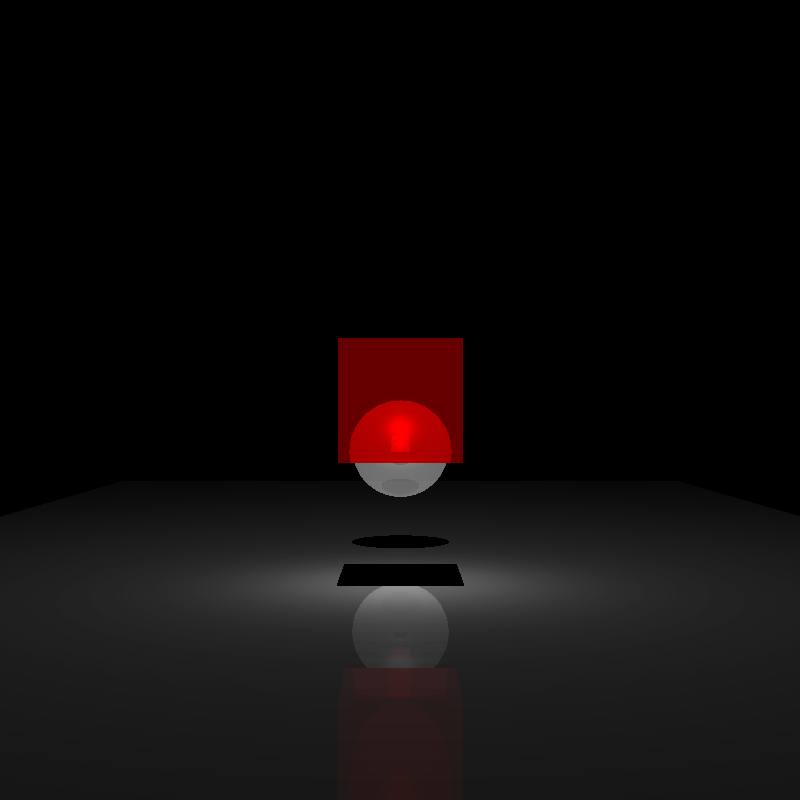
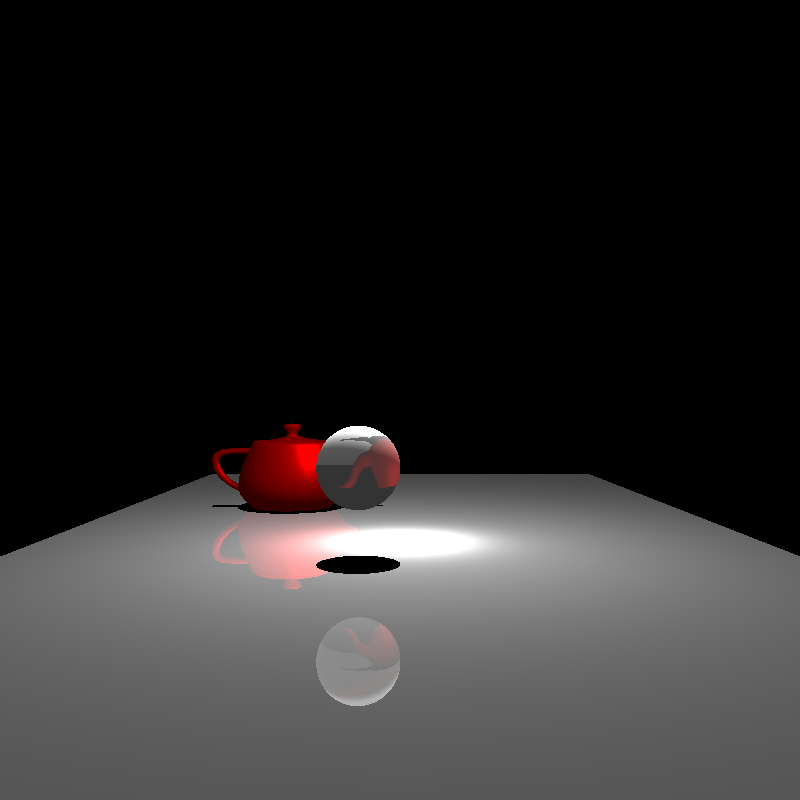
Loader

diff --git a/src/edu/up/isgc/raytracer/Raytracer.java b/src/edu/up/isgc/raytracer/Raytracer.java
@@ -26,23 +26,35 @@ public class Raytracer {
     public static void main(String[] args) {
         System.out.println(new Date());
         Scene scene01 = new Scene();
-        scene01.setCamera(new Camera(new Vector3D(0, 0, -8), 160, 160, 800,
+        scene01.setCamera(new Camera(new Vector3D(0, 0, -10), 160, 160, 800,
                 800, 0f, 50f));
         /*scene01.addLight(new DirectionalLight(Vector3D.ZERO(), new Vector3D(0.0, 0.0, 1.0), Color.WHITE, 0.8));
         scene01.addLight(new DirectionalLight(Vector3D.ZERO(), new Vector3D(0.0, -0.1, 0.1), Color.WHITE, 0.2));
-        scene01.addLight(new DirectionalLight(Vector3D.ZERO(), new Vector3D(-0.2, -0.1, 0.0), Color.WHITE, 0.2));*/
+        scene01.addLight(new DirectionalLight(Vector3D.ZERO(), new Vector3D(-0.2, -0.1, 0.0), Color.WHITE, 0.2));
 
         //scene01.addLight(new DirectionalLight(Vector3D.ZERO(), new Vector3D(0.0, 0, 0), Color.WHITE, 0.8, 1));
         scene01.addLight(new PointLight(new Vector3D(0f, 4f, 0.5f), Color.WHITE, 4, 1));
         //scene01.addLight(new PointLight(new Vector3D(1.5f, 1f, 1f), Color.WHITE, 2, 1));
         scene01.addObject(OBJReader.GetPolygon("./objs/Floor.obj", new Vector3D(0f, -1.5f, 1f), Color.GRAY,
                 new MaterialBP(0.001f, 0.4f, 0.5f, 10f, 0.9f, 0f)));
-        /*scene01.addObject(OBJReader.GetPolygon("./objs/SmallTeapot.obj", new Vector3D(2f, -0.5f, 3f),
-                Color.RED, new MaterialBP(0.1f, 1f, 1f, 20f, 0.8f, 0f)));*/
+        scene01.addObject(OBJReader.GetPolygon("./objs/SmallTeapot.obj", new Vector3D(2f, -0.5f, 3f),
+                Color.RED, new MaterialBP(0.1f, 1f, 1f, 20f, 0.8f, 0f)));
         scene01.addObject(new Sphere(new Vector3D(0f, -0.5f,3f), 0.5f, Color.WHITE,
                 new MaterialBP(0.1f, 0.2f, 0.6f, 20f, 0.8f, 1f)));
         scene01.addObject(OBJReader.GetPolygon("./objs/Cube.obj", new Vector3D(0f, -0.5f, 1f), Color.RED,
-                new MaterialBP(0.1f, 0.2f, 0.6f, 20f, 0f, 1.5f)));
+                new MaterialBP(0.1f, 0.2f, 0.6f, 20f, 0f, 1.5f)));*/
+
+        scene01.addLight(new PointLight(new Vector3D(0, 2, 0), Color.WHITE, 2, 1));
+        scene01.addObject(OBJReader.GetPolygon("./objs/Floor.obj", new Vector3D(0f, -2f, 0f), Color.WHITE,
+                new MaterialBP(0.1f, 1f, 1f, 20f, 0.8f, 0f)));
+        scene01.addObject(OBJReader.GetPolygon("./objs/SmallTeapot.obj", new Vector3D(-2f, -2f, 4f), Color.RED,
+                new MaterialBP(0.1f, 1f,1f, 20f,0f,0f)));
+        /*scene01.addObject(OBJReader.GetPolygon("./objs/SmallTeapot.obj", new Vector3D(2f, -2f, 0f), Color.WHITE,
+                new MaterialBP(0.1f, 1f,  1f, 20f, 0.8f,0f)));*/
+        /*scene01.addObject(OBJReader.GetPolygon("./objs/Cube.obj", new Vector3D(-2f, -1.5f, -1f), Color.WHITE,
+                new MaterialBP(0.1f,1f,1f,20f,0f,1.8f)));*/
+        scene01.addObject(new Sphere(new Vector3D(-0.5f, -0.8f, -1f), 0.5f, Color.WHITE,
+                new MaterialBP(0.1f,1f, 1f, 20f,0f,1.8f)));
 
         BufferedImage image = raytrace(scene01);
         File outputImage = new File("image.png");
@@ -76,16 +88,18 @@ public class Raytracer {
                 //Background color
                 Color pixelColor = Color.BLACK;
                 if (closestIntersection != null) {
-                    pixelColor = getPixelColor(ray, lights, objects, closestIntersection, pixelColor, 0, 5);
+                    pixelColor = getPixelColor(ray, lights, objects, closestIntersection, pixelColor, 0, 0,5);
                 }
                 image.setRGB(i, j, pixelColor.getRGB());
+
+                Loader(i, j, mainCamera.getResolutionWidth(), mainCamera.getResolutionHeight());
             }
         }
         return image;
     }
 
     public static Color getPixelColor(Ray ray, ArrayList<Light> lights, ArrayList<Object3D> objects, Intersection closestIntersection,
-                                      Color pixelColor, int depth, int maxDepth){
+                                      Color pixelColor, int depth, int refDepth, int maxDepth){
         for (Light light : lights) {
             Ray intersectionLightRay = new Ray(closestIntersection.getPosition(), light.getPosition());
             Intersection shadowIntersection = raycast(intersectionLightRay, objects, closestIntersection.getObject(), null);
@@ -112,36 +126,32 @@ public class Raytracer {
                         direction), 0.0), (float) objMaterial.getShininess()));
                 pixelColor = shading(lightColor, objColor, pixelColor, specularIntensity, (float) objMaterial.getSpecular());
 
-                /* Refraction
-                float nDotL = light.getNDotL(closestIntersection);
-                MaterialBP objMaterial = closestIntersection.getObject().getMaterial();
-
-                Vector3D transmitionVector = transmitionRay(light.getPosition(), nDotL, closestIntersection.getNormal(), (float) objMaterial.getIndexOfRefraction());
-                if (transmitionVector == null) {
-                */
-
-                // Reflection
-                if (objMaterial.getIndexOfReflexion() > 0 && depth < maxDepth) {
-                    Vector3D reflectionDirection = Vector3D.substract(ray.getDirection(), Vector3D.scalarMultiplication(
-                            Vector3D.scalarMultiplication(closestIntersection.getNormal(),
-                            Vector3D.dotProduct(ray.getDirection(), closestIntersection.getNormal())), 2));
-                    Ray intersectionReflectionRay = new Ray(closestIntersection.getPosition(), reflectionDirection);
-                    Intersection reflectionIntersection = raycast(intersectionReflectionRay, objects, closestIntersection.getObject(), null);
-                    if (reflectionIntersection != null) {
-                        depth += 1;
-                        Color reflectedObjColor = getPixelColor(ray, lights, objects, reflectionIntersection, Color.BLACK, depth, maxDepth);
-                        pixelColor = shading(pixelColor, reflectedObjColor, pixelColor, (float) objMaterial.getIndexOfReflexion(), 1f);
+                if (depth < maxDepth){
+                    // Reflection
+                    if (objMaterial.getIndexOfReflexion() > 0 && refDepth < maxDepth) {
+                        Vector3D reflectionDirection = Vector3D.substract(ray.getDirection(), Vector3D.scalarMultiplication(
+                                Vector3D.scalarMultiplication(closestIntersection.getNormal(),
+                                Vector3D.dotProduct(ray.getDirection(), closestIntersection.getNormal())), 2));
+                        Ray intersectionReflectionRay = new Ray(closestIntersection.getPosition(), reflectionDirection);
+                        Intersection reflectionIntersection = raycast(intersectionReflectionRay, objects, closestIntersection.getObject(), null);
+                        if (reflectionIntersection != null) {
+                            refDepth += 1;
+                            depth += 1;
+                            Color reflectedObjColor = getPixelColor(ray, lights, objects, reflectionIntersection, Color.BLACK, depth, refDepth, maxDepth);
+                            pixelColor = shading(pixelColor, reflectedObjColor, pixelColor, (float) objMaterial.getIndexOfReflexion(), 1f);
+                        }
                     }
-                }
 
-                // Refraction
-                if (objMaterial.getIndexOfRefraction() > 0){
-                    Vector3D refractionDirection = transmitionRay(ray.getDirection(), closestIntersection.getNormal(), (float) objMaterial.getIndexOfRefraction());
-                    Ray intersectionRefractionRay = new Ray(closestIntersection.getPosition(), refractionDirection);
-                    Intersection refractionIntersection = raycast(intersectionRefractionRay, objects, closestIntersection.getObject(), null);
-                    if (refractionIntersection != null) {
-                        Color refractedObjColor = getPixelColor(ray, lights, objects, refractionIntersection, Color.BLACK, 0, maxDepth);
-                        pixelColor = shading(pixelColor, refractedObjColor, pixelColor, (float) objMaterial.getIndexOfRefraction(), 1f);
+                    // Refraction
+                    if (objMaterial.getIndexOfRefraction() > 0){
+                        Vector3D refractionDirection = transmitionRay(ray.getDirection(), closestIntersection.getNormal(), (float) objMaterial.getIndexOfRefraction());
+                        Ray intersectionRefractionRay = new Ray(closestIntersection.getPosition(), refractionDirection);
+                        Intersection refractionIntersection = raycast(intersectionRefractionRay, objects, closestIntersection.getObject(), null);
+                        if (refractionIntersection != null) {
+                            depth += 1;
+                            Color refractedObjColor = getPixelColor(ray, lights, objects, refractionIntersection, Color.BLACK, depth, 0, maxDepth);
+                            pixelColor = shading(pixelColor, refractedObjColor, pixelColor, (float) objMaterial.getIndexOfRefraction(), 1f);
+                        }
                     }
                 }
             }
@@ -214,6 +224,17 @@ public class Raytracer {
         }
 
         return closestIntersection;
+    }
+
+    public static void Loader(int i, int j, int widthResolution, int heightResolution){
+        int total = widthResolution*heightResolution;
+        int actualPixel = (i+1) * widthResolution + (j+1);
+
+        float percentage = (float) actualPixel*100/total;
+        if (percentage%10 == 0){
+            System.out.println("\tActual percentage: " + percentage + "% --- Pixel " + actualPixel + " of " + total);
+        }
+
     }
 
 }
